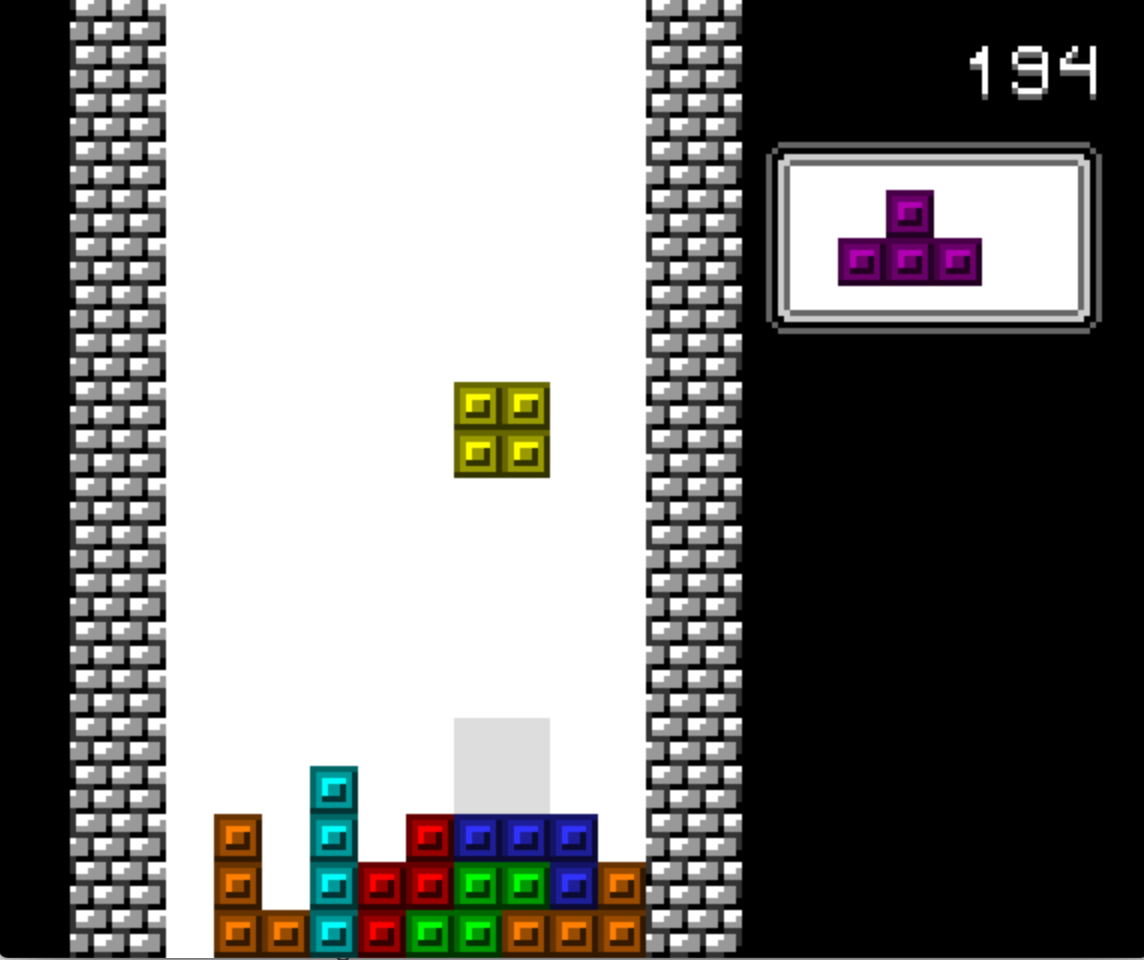
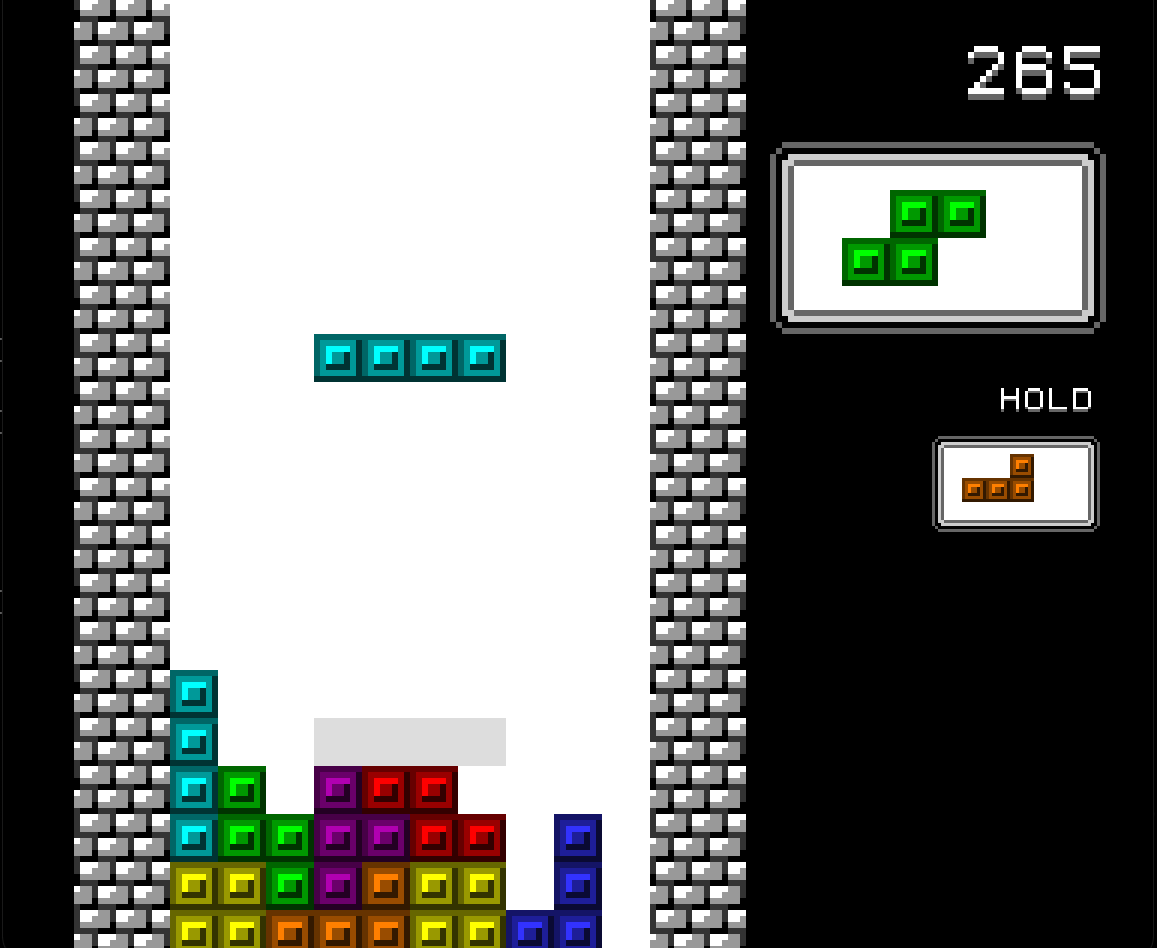
Updated README with controls and new screenshot.

diff --git a/README.md b/README.md
@@ -2,4 +2,13 @@
 A Tetris clone written in C using SDL2 that more or less complies with the official guidelines.
 Depends on SDL2 and SDL2_image. Uses the _Random generator_ algorithm as described by the guidelines and a public domain implementation of the Mersenne Twister algorithm to shuffle the bag.
 
-![Early development screenshot](https://raw.githubusercontent.com/tjohnman/teturisu/master/assets/screenshot.png)
+![Screenshot](https://raw.githubusercontent.com/tjohnman/teturisu/master/assets/screenshot.png)
+
+## Controls
+- Arrow keys: move pieces around.
+- Shift and C: hold/switch a piece.
+- Up and X: rotate piece clockwise
+- Z and Control: rotate piece counterclockwise.
+- Down: soft drop.
+- Space: hard drop.
+- Escape and F1: pause/unpause.
